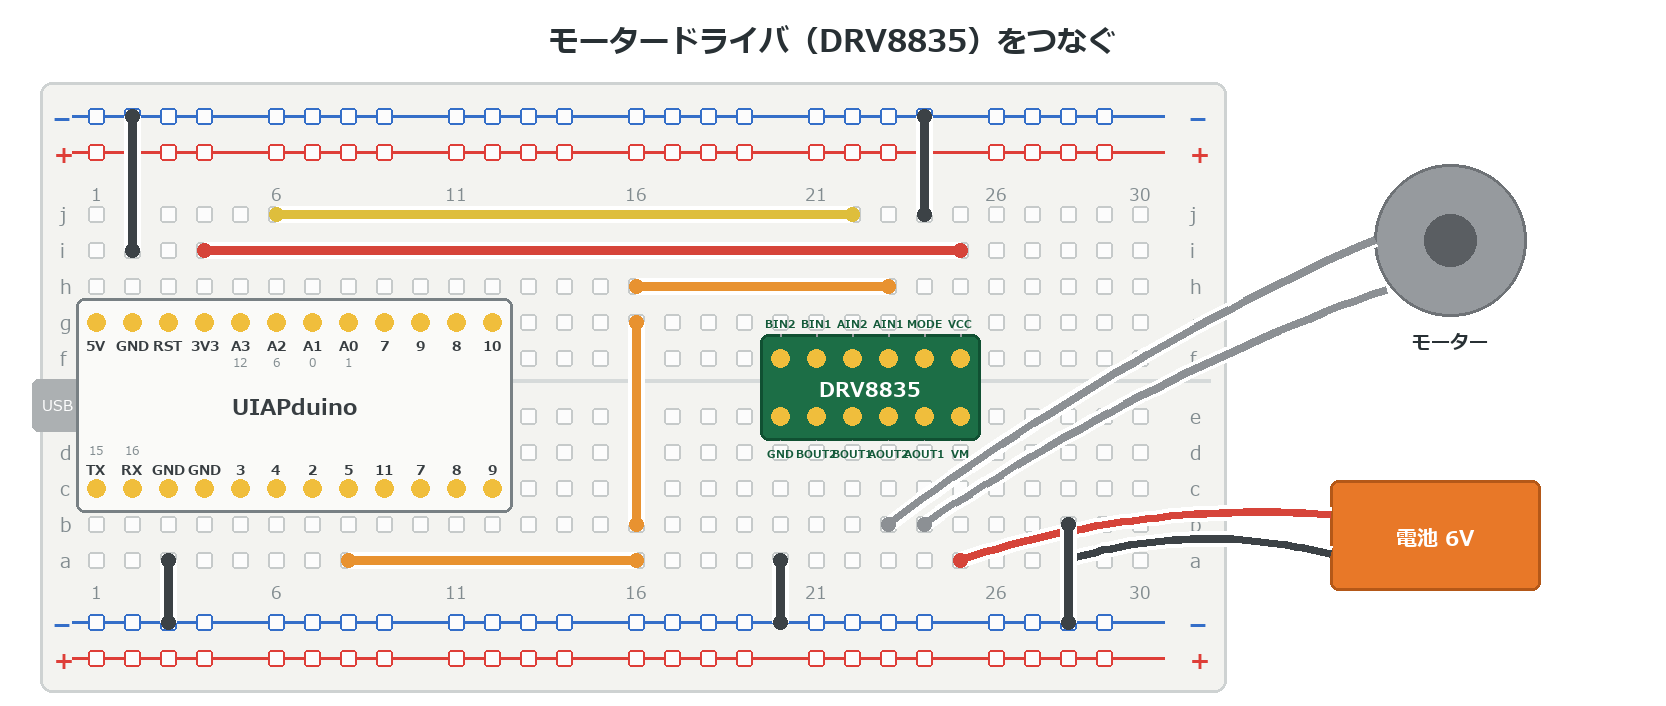
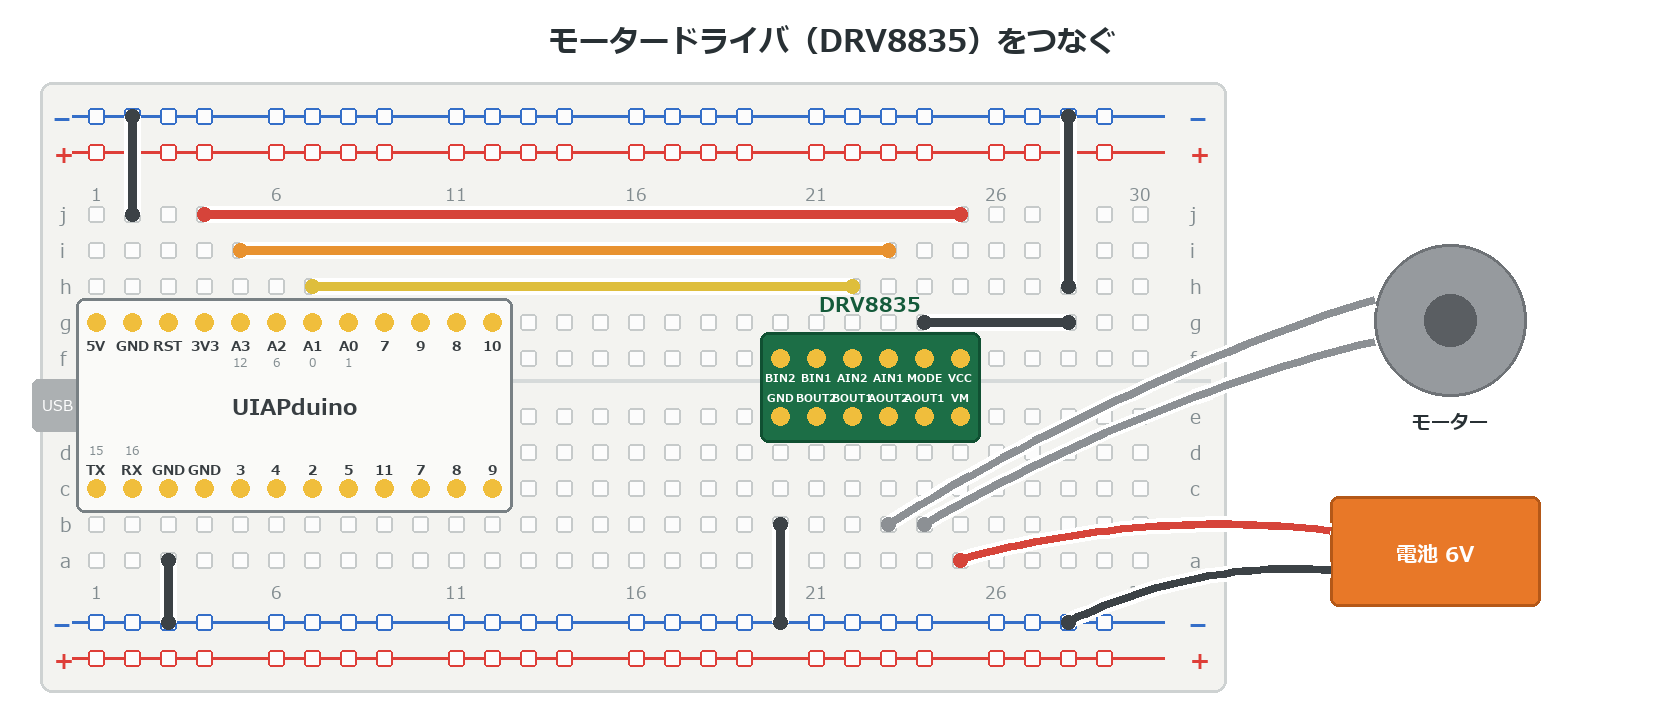
e5 の AIN1/AIN2 を 5・6番 → 12・0番 に変更し、配線をまっすぐにした
DRV8835 は e行・f行 に溝をまたいで装着するので、合図の線は上がわに集まる。
AIN1 が 5番（下がわにしかない）だと、溝をこえる3本のジャンパーが必要だった。

- AIN1 = 12（A3）／ AIN2 = 0（A1）に変更。どちらも上がわの PWM 可ピン
- **A2(6) はあえて使わなかった**。e5 の 💪「つまみでスピードを決める」で
  b4 の可変抵抗が A2 を使うため、そのままだとぶつかっていた
- 正転・逆転どちらでもスピードを変えられる、という主張は維持

配線（交差なし）:
- 3V3 → VCC … j行
- 12番 → AIN1 … i行
- 0番  → AIN2 … h行
- MODE → 28列へ渡して 上の −レールへ
- 電池の − … 下の −レールへ**直接**（ジャンパー不要）
- 電池の ＋ … VM の列へ直接

あわせて DRV8835 の端子名を本体の中に入れた。
以前は本体の外（h行・c行）に出していたため、
まわりの配線に隠れて読めなくなっていた。

⚠ 実機検証は AIN1=5 で行ったもの。12番での再確認はまだなので
CURRICULUM.md に申し送りを残した。

diff --git a/docs/e5_motor/index.html b/docs/e5_motor/index.html
@@ -97,13 +97,13 @@
 
 1. **VCC** → **3V3** ／ **GND** → **GND**
 2. **MODE** → **GND**
-3. **AIN1** → **5番** ／ **AIN2** → **6番**
+3. **AIN1** → **12番**（A3）／ **AIN2** → **0番**（A1）
 
 > ⚠ 端子の名前は基板の印刷で確かめてね。
 
 :::
 
-![VCC→3V3、MODE→GND、AIN1→5番、AIN2→6番](image/index/bb_drv8835.png)
+![合図の線は4本とも上がわ。力の線は下がわ](image/index/bb_drv8835.png)
 
 ---
 
@@ -155,14 +155,14 @@
 2. 2秒ずつ、正転 → 逆転 → 停止
 3. `200` を変えると、スピードが変わる
 
-> 5番と6番を選んだのは、**どちらも PWM が使えるピン**だから。
-> どちら向きでもスピードを変えられるようにしてあるんだ。
+> **どちらも PWM が使えるピン**を選んである。
+> だから正転でも逆転でもスピードを変えられるんだ。
 
 :::
 
 ```cpp `e5_motor` 正転と逆転をくりかえす
-const int AIN1 = 5;   // どちらも PWM が使えるピン
-const int AIN2 = 6;
+const int AIN1 = 12;  // どちらも PWM が使えるピン
+const int AIN2 = 0;
 
 void setup() {
   pinMode(AIN1, OUTPUT);

diff --git a/tools/bb.py b/tools/bb.py
@@ -318,23 +318,22 @@ def servo(d, x, y, w=250, h=150):
     return [(x - 62, y + h * (0.34 + 0.18 * i)) for i in range(3)]
 
 def dip(d, col, top_pins, bot_pins, title="DRV8835", fill=(28, 110, 70)):
-    """300mil の DIP モジュール。溝をまたいで f行・e行 に入る（6列ぶん）"""
+    """300mil の DIP モジュール。溝をまたいで f行・e行 に入る（6列ぶん）。
+    端子名は本体の中に書く（まわりの配線と重ならないように）。"""
     n = len(top_pins)
     x1, x2 = cx(col) - 20, cx(col + n - 1) + 20
-    y1, y2 = cy("f") - 24, cy("e") + 24
+    y1, y2 = cy("f") - 26, cy("e") + 26
     d.rounded_rectangle([x1, y1, x2, y2], radius=8, fill=fill,
                         outline=(16, 80, 50), width=3)
-    center(d, (x1 + x2) / 2, (y1 + y2) / 2 - 12, title, bold(20), WHITE)
+    center(d, (x1 + x2) / 2, cy("g") - 32, title, bold(20), (20, 90, 58))
     for i, lab in enumerate(top_pins):
         x = cx(col + i)
         d.ellipse([x - 9, cy("f") - 9, x + 9, cy("f") + 9], fill=GOLD)
-        d.line([x, cy("f") - 24, x, cy("g") + 14], fill=(150, 154, 158), width=2)
-        center(d, x, cy("g") - 6, lab, bold(11), (20, 90, 58))
+        center(d, x, cy("f") + 12, lab, bold(11), WHITE)
     for i, lab in enumerate(bot_pins):
         x = cx(col + i)
         d.ellipse([x - 9, cy("e") - 9, x + 9, cy("e") + 9], fill=GOLD)
-        d.line([x, cy("e") + 24, x, cy("d") - 12], fill=(150, 154, 158), width=2)
-        center(d, x, cy("d") - 6, lab, bold(11), (20, 90, 58))
+        center(d, x, cy("e") - 26, lab, bold(11), WHITE)
 
 def motor(d, x, y, r=76):
     d.ellipse([x - r, y - r, x + r, y + r], fill=(150, 154, 158),

diff --git a/CURRICULUM.md b/CURRICULUM.md
@@ -150,6 +150,20 @@ void loop() {
 - LED の足の長さ＝＋、抵抗は **1kΩ**、GND へ戻す
   - ⚠ Arduino 定番の 220Ω は AVR（20mA駆動）向けの値。CH32V003 には過大
 
+### e5 の AIN1/AIN2 を 5・6番 → 12・0番 に変更（2026-09-20）
+
+DRV8835 は e行・f行 に溝をまたいで装着するので、合図の線は**上がわ**に集まる。
+AIN1 が 5番（下がわにしかない）だと、溝をこえる3本のジャンパーが必要だった。
+
+- **AIN1 = 12（A3）／ AIN2 = 0（A1）** に変更。どちらも上がわの PWM 可ピン
+- PWM が使えるのは 0・2・5・6・12 の5本。うち上がわにあるのは
+  **A3(12)・A2(6)・A1(0)** の3つだけ（A0(1) は相補出力チャンネルで PWM 不可）
+- **A2(6) はあえて使わない**。e5 の 💪「つまみでスピードを決める」で
+  b4 の可変抵抗が A2 を使うため、ぶつからないようにした
+- 正転・逆転どちらでもスピードを変えられる、という教材の主張は維持
+
+⚠ 実機検証は AIN1=5 で行ったもの。12番での再確認はまだ。
+
 ### e3 の TRIG を 5番 → 9番 に変更（2026-09-20）
 
 配線図を「センサーをブレッドボードにさす」形にしたとき、5番ピンが下がわにしか

diff --git a/content/e5_motor/index.md b/content/e5_motor/index.md
@@ -84,13 +84,13 @@ wip: 写真まち
 
 1. **VCC** → **3V3** ／ **GND** → **GND**
 2. **MODE** → **GND**
-3. **AIN1** → **5番** ／ **AIN2** → **6番**
+3. **AIN1** → **12番**（A3）／ **AIN2** → **0番**（A1）
 
 > ⚠ 端子の名前は基板の印刷で確かめてね。
 
 :::
 
-![VCC→3V3、MODE→GND、AIN1→5番、AIN2→6番](image/index/bb_drv8835.png)
+![合図の線は4本とも上がわ。力の線は下がわ](image/index/bb_drv8835.png)
 
 ---
 
@@ -142,14 +142,14 @@ wip: 写真まち
 2. 2秒ずつ、正転 → 逆転 → 停止
 3. `200` を変えると、スピードが変わる
 
-> 5番と6番を選んだのは、**どちらも PWM が使えるピン**だから。
-> どちら向きでもスピードを変えられるようにしてあるんだ。
+> **どちらも PWM が使えるピン**を選んである。
+> だから正転でも逆転でもスピードを変えられるんだ。
 
 :::
 
 ```cpp `e5_motor` 正転と逆転をくりかえす
-const int AIN1 = 5;   // どちらも PWM が使えるピン
-const int AIN2 = 6;
+const int AIN1 = 12;  // どちらも PWM が使えるピン
+const int AIN2 = 0;
 
 void setup() {
   pinMode(AIN1, OUTPUT);
